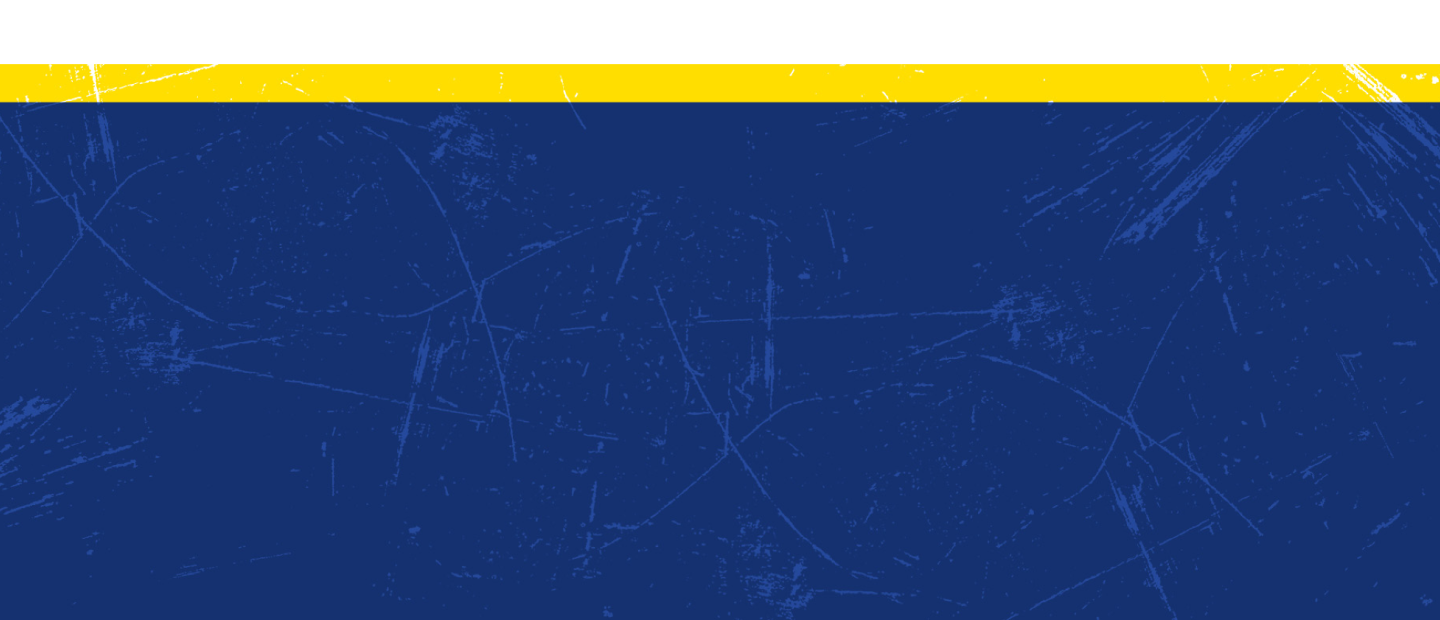
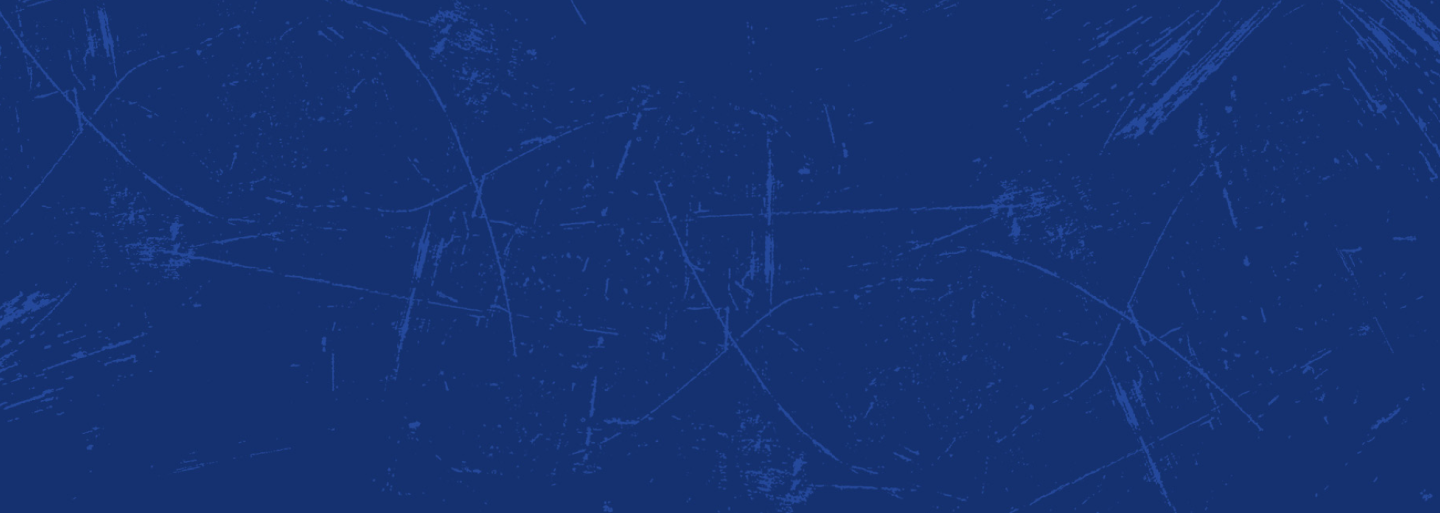
Footer Update

diff --git a/scss/_footer.scss b/scss/_footer.scss
@@ -1,9 +1,4 @@
 footer {
-
-    .bg {
-        display: none;
-    }
-
     h5 {
         font-size: 0.875rem;
         font-weight: 700;
@@ -22,26 +17,43 @@ footer {
 
 .footer_container {
     padding: 2.5rem 1rem;
+    z-index: 2;
+    position: relative;
+
+    .bg {
+        display: none;
+    }
 }
 
 .footer_url_path {
     background: $primaryYellow;
     display: none;
-    padding: .4rem 1rem;
-
+    position: relative;
+    
     .fup_logo {
         height: 1.375rem;
         width: auto;
         object-fit: contain;
         margin-right: .8rem;
+        z-index: 2;
     }
 
     ul {
         display: flex;
         align-items: center;
         color: $primaryBlue;
-        font-size: 0.875rem;
+        z-index: 2;
+        gap: .5rem;
+        
+        li {
+            font-size: 0.875rem;
+        }
     }
+}
+
+.footer_row1, .footer_row2, .footer_row3 {
+    position: relative;
+    z-index: 3;
 }
 
 .footer_row1 {
@@ -107,8 +119,24 @@ footer {
 }
 
 @media only screen and (min-width: 1440px) {
+    .footer_url_path {
+        display: flex;
+        align-items: center;
+        padding: .25rem 3.75rem;
+    }
+
     .footer_container {
         padding: 3.5rem 3.75rem 1.5rem 3.75rem;
+
+        .bg {
+            display: block;
+            position: absolute;
+            width: 100%;
+            height: 100%;
+            object-fit: cover;
+            inset: 0;
+            z-index: 1;
+        }
     }
 
     .footer_row1 {

diff --git a/css/style.css b/css/style.css
@@ -402,9 +402,6 @@ header {
 footer {
   background: #153170;
 }
-footer .bg {
-  display: none;
-}
 footer h5 {
   font-size: 0.875rem;
   font-weight: 700;
@@ -419,24 +416,39 @@ footer a, footer p {
 
 .footer_container {
   padding: 2.5rem 1rem;
+  z-index: 2;
+  position: relative;
+}
+.footer_container .bg {
+  display: none;
 }
 
 .footer_url_path {
   background: #FFDD18;
   display: none;
-  padding: 0.4rem 1rem;
+  position: relative;
 }
 .footer_url_path .fup_logo {
   height: 1.375rem;
   width: auto;
   object-fit: contain;
   margin-right: 0.8rem;
+  z-index: 2;
 }
 .footer_url_path ul {
   display: flex;
   align-items: center;
   color: #17428C;
+  z-index: 2;
+  gap: 0.5rem;
+}
+.footer_url_path ul li {
   font-size: 0.875rem;
+}
+
+.footer_row1, .footer_row2, .footer_row3 {
+  position: relative;
+  z-index: 3;
 }
 
 .footer_row1 {
@@ -494,8 +506,23 @@ footer a, footer p {
   }
 }
 @media only screen and (min-width: 1440px) {
+  .footer_url_path {
+    display: flex;
+    align-items: center;
+    padding: 0.25rem 3.75rem;
+  }
+
   .footer_container {
     padding: 3.5rem 3.75rem 1.5rem 3.75rem;
+  }
+  .footer_container .bg {
+    display: block;
+    position: absolute;
+    width: 100%;
+    height: 100%;
+    object-fit: cover;
+    inset: 0;
+    z-index: 1;
   }
 
   .footer_row1 {

diff --git a/index.html b/index.html
@@ -549,14 +549,15 @@
         </section>
     </main>
     <footer>
-        <img class="bg" src="./images/footer_bg.png" alt="">
         <div class="footer_url_path">
             <img class="fup_logo" src="./images/logo.png" alt="">
             <ul>
                 <li>/</li>
+                <li>Archiv</li>
             </ul>
         </div>
         <div class="footer_container">
+            <img class="bg" src="./images/footer_bg.png" alt="">
             <div class="footer_row1">
                 <div class="col1">
                     <img src="./images/logo.png" alt="">
